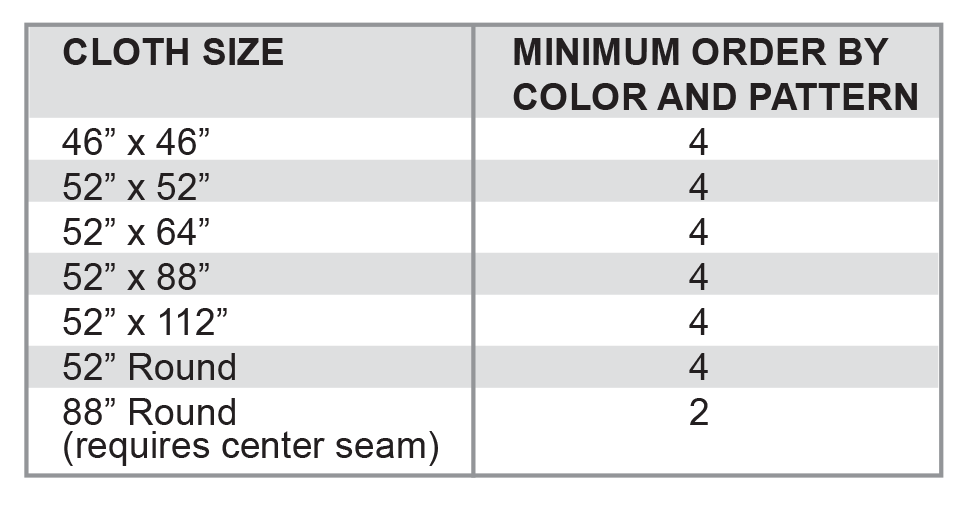
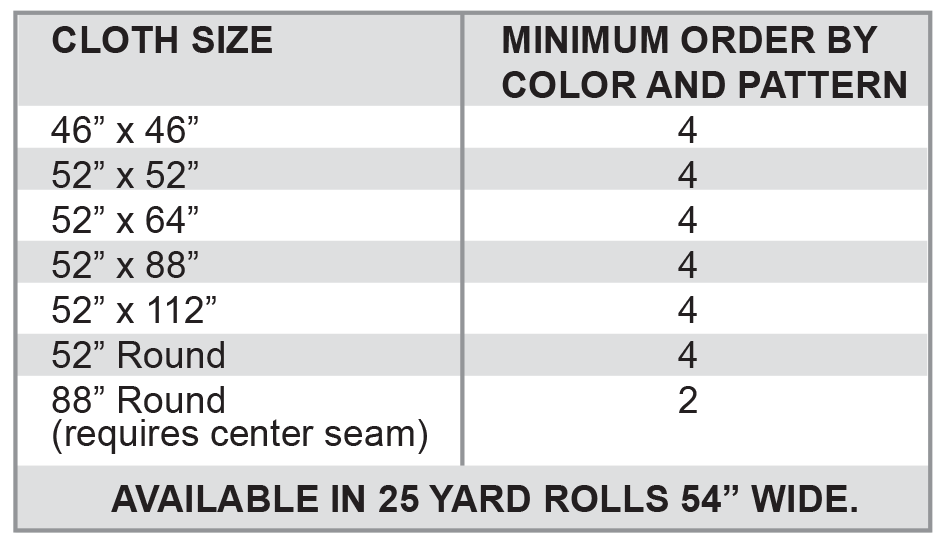
Replace vv chart, add roll goods info to value vinyl, change swatch display styling.

diff --git a/app/assets/stylesheets/custom.css.scss b/app/assets/stylesheets/custom.css.scss
@@ -646,7 +646,7 @@ footer {
   text-decoration: none !important;
 }
 .imgbottompad {
-  padding-bottom:12px;
+  padding-bottom:5px;
 }
 
 .shadow:hover {
